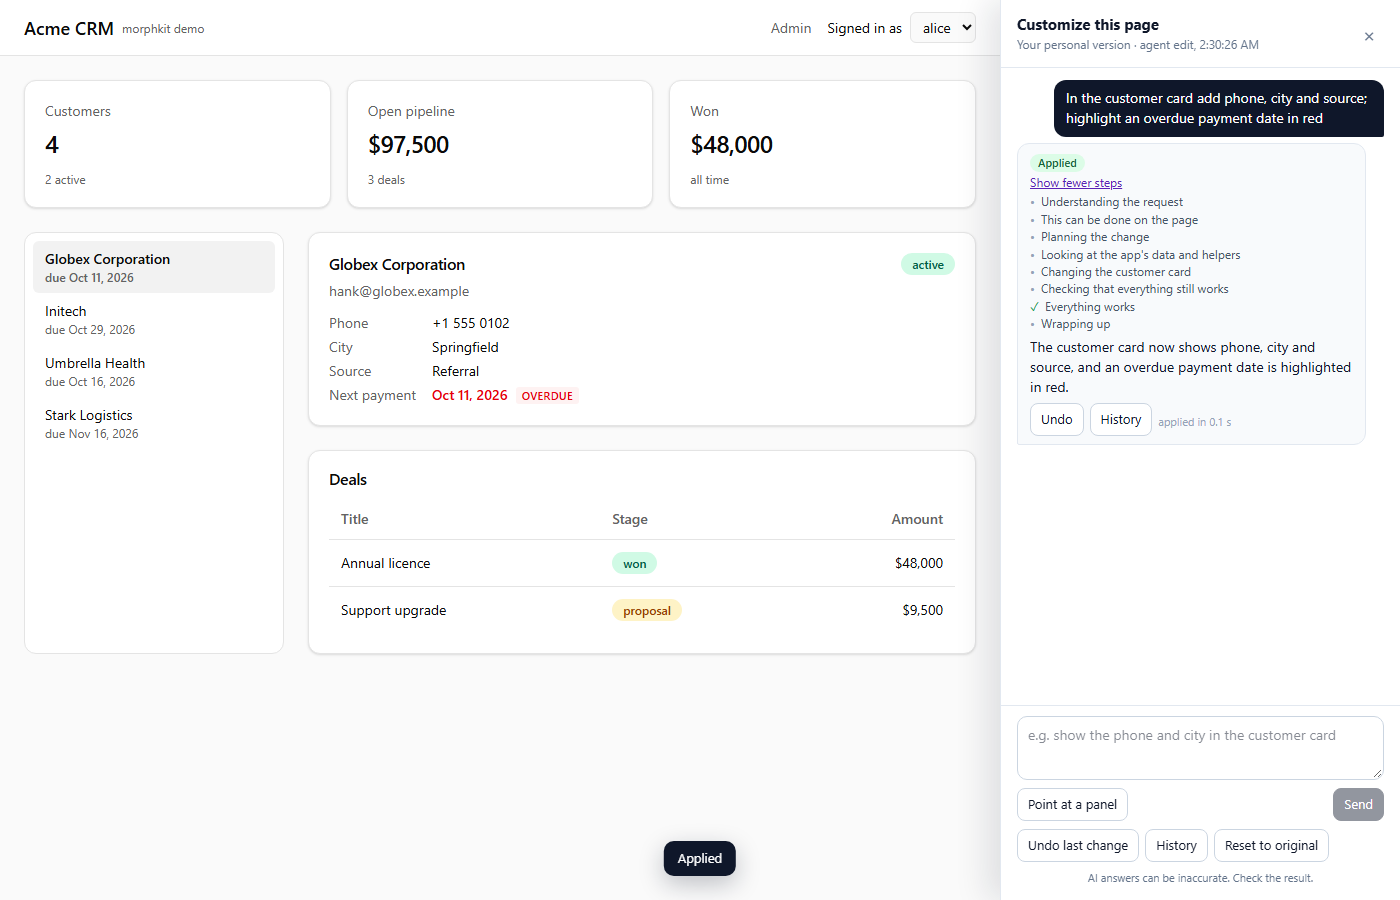
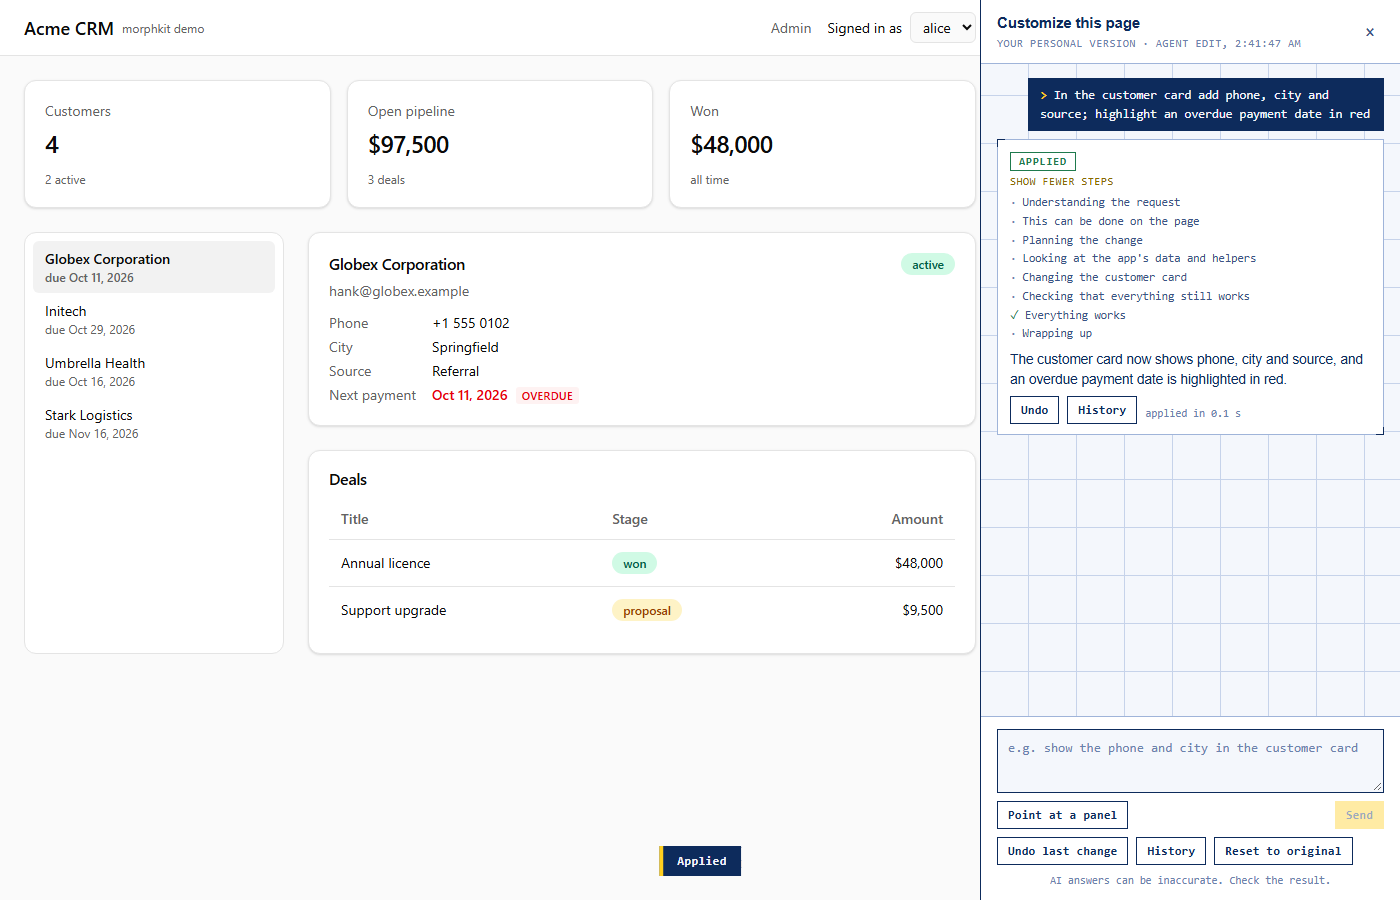
Design v2 for the chat drawer (@morphkit/ui CSS) and /admin (scoped cyanotype theme), no markup changes

diff --git a/packages/ui/src/styles.ts b/packages/ui/src/styles.ts
@@ -1,76 +1,127 @@
 import { useInsertionEffect } from 'react'
 
 // Self-contained styles: the host app may not use Tailwind, so the UI ships plain CSS with an `mk-` prefix.
+// Visual language: "cyanotype" (docs/DESIGN.md). Light sheet by default so the drawer sits quietly inside a
+// customer's app; `data-mk-theme="dark"` on <html> or the root switches to the blueprint sheet. Fonts fall back
+// to the host's system stacks: the drawer never loads web fonts into someone else's app.
 const CSS = `
 .mk-root, .mk-root * { box-sizing: border-box; }
-.mk-root { font: 14px/1.45 ui-sans-serif, system-ui, -apple-system, "Segoe UI", sans-serif; color: #0f172a; }
-.mk-launch { position: fixed; right: 20px; bottom: 20px; z-index: 2147482000; display: inline-flex; align-items: center; gap: 8px;
-  padding: 10px 16px; border-radius: 999px; border: 0; background: #0f172a; color: #fff; font-weight: 600; cursor: pointer;
-  box-shadow: 0 8px 24px rgba(15,23,42,.25); }
-.mk-launch:hover { background: #1e293b; }
-.mk-dot { width: 8px; height: 8px; border-radius: 50%; background: #a78bfa; }
-.mk-drawer { position: fixed; top: 0; right: 0; bottom: 0; width: 400px; max-width: 100vw; z-index: 2147482001; display: flex; flex-direction: column;
-  background: #fff; border-left: 1px solid #e2e8f0; box-shadow: -12px 0 32px rgba(15,23,42,.12); }
-.mk-head { display: flex; align-items: center; justify-content: space-between; padding: 14px 16px; border-bottom: 1px solid #e2e8f0; }
-.mk-title { font-weight: 650; font-size: 15px; }
-.mk-sub { font-size: 12px; color: #64748b; }
-.mk-icon { border: 0; background: transparent; font-size: 20px; line-height: 1; cursor: pointer; color: #64748b; padding: 4px 8px; border-radius: 6px; }
-.mk-icon:hover { background: #f1f5f9; }
-.mk-body { flex: 1; overflow-y: auto; padding: 12px 16px; display: flex; flex-direction: column; gap: 12px; }
-.mk-empty { color: #64748b; font-size: 13px; }
-.mk-empty ul { margin: 6px 0 0; padding-left: 18px; }
-.mk-turn { display: flex; flex-direction: column; gap: 6px; }
-.mk-req { align-self: flex-end; max-width: 90%; background: #0f172a; color: #fff; padding: 8px 12px; border-radius: 12px 12px 2px 12px; white-space: pre-wrap; }
-.mk-resp { align-self: flex-start; max-width: 95%; background: #f8fafc; border: 1px solid #e2e8f0; padding: 8px 12px; border-radius: 12px 12px 12px 2px; }
-.mk-steps { list-style: none; margin: 0; padding: 0; font-size: 12px; color: #475569; }
+.mk-root {
+  --mk-paper: #f4f7fc; --mk-paper-2: #e9eef8; --mk-paper-3: #ffffff;
+  --mk-ink: #0d2b5c; --mk-ink-2: #3a5486; --mk-ink-3: #6b82ad;
+  --mk-rule: #c6d3ea; --mk-rule-2: #9fb4d9;
+  --mk-signal: #ffcf1f; --mk-signal-ink: #8a6a00; --mk-signal-wash: rgba(255,207,31,.22);
+  --mk-blue: #1b6fb8; --mk-ok: #1f7a4d; --mk-bad: #b42318; --mk-bad-wash: rgba(180,35,24,.08);
+  --mk-font: "Archivo", "Helvetica Neue", Arial, system-ui, sans-serif;
+  --mk-mono: "Azeret Mono", ui-monospace, "SFMono-Regular", Menlo, Consolas, monospace;
+  font: 14px/1.45 var(--mk-font); color: var(--mk-ink);
+}
+[data-mk-theme="dark"] .mk-root, .mk-root[data-mk-theme="dark"] {
+  --mk-paper: #0d2b5c; --mk-paper-2: #0a2349; --mk-paper-3: #113570;
+  --mk-ink: #eaf2ff; --mk-ink-2: #b7c9ea; --mk-ink-3: #7f98c6;
+  --mk-rule: #2a4f8f; --mk-rule-2: #3b63a6;
+  --mk-signal: #ffd23f; --mk-signal-ink: #ffd23f; --mk-signal-wash: rgba(255,210,63,.14);
+  --mk-blue: #8fd6ff; --mk-ok: #7ef0b0; --mk-bad: #ff8a80; --mk-bad-wash: rgba(255,138,128,.12);
+}
+.mk-label { font-family: var(--mk-mono); font-size: 10.5px; letter-spacing: .12em; text-transform: uppercase; color: var(--mk-ink-3); }
+
+/* launcher */
+.mk-launch { position: fixed; right: 20px; bottom: 20px; z-index: 2147482000; display: inline-flex; align-items: center; gap: 10px;
+  padding: 10px 14px 10px 12px; border-radius: 0; border: 1.5px solid var(--mk-ink); background: var(--mk-paper-3); color: var(--mk-ink);
+  font: 600 12.5px/1 var(--mk-mono); letter-spacing: .04em; text-transform: uppercase; cursor: pointer; }
+.mk-launch::after { content: ""; position: absolute; right: -5px; bottom: -5px; width: 10px; height: 10px; border-right: 1.5px solid var(--mk-ink); border-bottom: 1.5px solid var(--mk-ink); }
+.mk-launch:hover { background: var(--mk-ink); color: var(--mk-paper); }
+.mk-dot { width: 12px; height: 12px; border: 1.5px solid currentColor; background: repeating-linear-gradient(-45deg, var(--mk-signal) 0 2px, transparent 2px 5px); }
+
+/* drawer as a sheet */
+.mk-drawer { position: fixed; top: 0; right: 0; bottom: 0; width: 420px; max-width: 100vw; z-index: 2147482001; display: flex; flex-direction: column;
+  background: var(--mk-paper); color: var(--mk-ink); border-left: 1.5px solid var(--mk-ink);
+  background-image: linear-gradient(var(--mk-rule) 1px, transparent 1px), linear-gradient(90deg, var(--mk-rule) 1px, transparent 1px);
+  background-size: 48px 48px; background-position: -1px -1px; }
+.mk-head { display: flex; align-items: center; justify-content: space-between; padding: 12px 16px; border-bottom: 1px solid var(--mk-rule-2); background: var(--mk-paper-3); }
+.mk-title { font-weight: 700; font-size: 15px; letter-spacing: -.01em; }
+.mk-sub { font-family: var(--mk-mono); font-size: 10.5px; letter-spacing: .08em; text-transform: uppercase; color: var(--mk-ink-3); margin-top: 2px; }
+.mk-icon { border: 1px solid transparent; background: transparent; font-size: 18px; line-height: 1; cursor: pointer; color: var(--mk-ink-2); padding: 4px 8px; border-radius: 0; font-family: var(--mk-mono); }
+.mk-icon:hover { border-color: var(--mk-ink); color: var(--mk-ink); }
+.mk-body { flex: 1; overflow-y: auto; padding: 14px 16px; display: flex; flex-direction: column; gap: 14px; }
+.mk-empty { color: var(--mk-ink-2); font-size: 13px; }
+.mk-empty ul { margin: 8px 0 0; padding: 0; list-style: none; display: flex; flex-direction: column; gap: 6px; }
+
+/* turns */
+.mk-turn { display: flex; flex-direction: column; gap: 8px; }
+.mk-req { align-self: flex-end; max-width: 92%; background: var(--mk-ink); color: var(--mk-paper); padding: 8px 12px; border-radius: 0; white-space: pre-wrap; font-family: var(--mk-mono); font-size: 12.5px; line-height: 1.5; }
+.mk-req::before { content: "> "; color: var(--mk-signal); font-weight: 600; }
+.mk-resp { position: relative; align-self: flex-start; width: 100%; background: var(--mk-paper-3); border: 1px solid var(--mk-rule-2); padding: 10px 12px; border-radius: 0; }
+.mk-resp::before, .mk-resp::after { content: ""; position: absolute; width: 8px; height: 8px; pointer-events: none; border-color: var(--mk-ink); border-style: solid; border-width: 0; }
+.mk-resp::before { left: -1px; top: -1px; border-left-width: 1.5px; border-top-width: 1.5px; }
+.mk-resp::after { right: -1px; bottom: -1px; border-right-width: 1.5px; border-bottom-width: 1.5px; }
+.mk-steps { list-style: none; margin: 6px 0 0; padding: 0; font-family: var(--mk-mono); font-size: 11.5px; color: var(--mk-ink-2); display: flex; flex-direction: column; gap: 2px; }
 .mk-steps li { display: flex; gap: 6px; align-items: baseline; }
-.mk-steps li::before { content: "•"; color: #94a3b8; }
-.mk-steps li.mk-bad::before { content: "×"; color: #dc2626; }
-.mk-steps li.mk-good::before { content: "✓"; color: #16a34a; }
-.mk-steps li.mk-transient { color: #7c3aed; }
-.mk-count { margin-left: 4px; color: #94a3b8; }
-.mk-details { display: block; border: 0; background: transparent; padding: 0; margin: 2px 0; font: inherit; font-size: 12px; color: #5b21b6; cursor: pointer; text-decoration: underline; }
-.mk-example { border: 0; padding: 0; text-align: left; color: #5b21b6; background: transparent; }
-.mk-summary { margin-top: 4px; }
-.mk-disclaimer { font-size: 11px; color: #64748b; text-align: center; }
-.mk-clarify { margin-top: 6px; display: flex; flex-direction: column; gap: 4px; }
+.mk-steps li::before { content: "·"; color: var(--mk-ink-3); }
+.mk-steps li.mk-bad::before { content: "×"; color: var(--mk-bad); }
+.mk-steps li.mk-good::before { content: "✓"; color: var(--mk-ok); }
+.mk-steps li.mk-transient::before { content: "▸"; color: var(--mk-signal-ink); }
+.mk-steps li.mk-transient { color: var(--mk-ink); }
+.mk-count { margin-left: 4px; color: var(--mk-ink-3); }
+.mk-details { display: block; border: 0; background: transparent; padding: 0; margin: 4px 0 0; font: 11px var(--mk-mono); letter-spacing: .04em; text-transform: uppercase; color: var(--mk-ink-3); cursor: pointer; text-decoration: none; }
+.mk-details:hover { color: var(--mk-signal-ink); }
+.mk-example { border: 1px dashed var(--mk-ink-3) !important; padding: 6px 10px !important; text-align: left; color: var(--mk-ink-2) !important; background: transparent !important; font-family: var(--mk-mono) !important; font-size: 12px !important; }
+.mk-example:hover { border-style: solid !important; border-color: var(--mk-signal) !important; color: var(--mk-signal-ink) !important; }
+.mk-summary { margin-top: 8px; font-size: 13.5px; line-height: 1.5; }
+.mk-disclaimer { font-family: var(--mk-mono); font-size: 10.5px; color: var(--mk-ink-3); text-align: center; letter-spacing: .02em; }
+.mk-clarify { margin-top: 8px; display: flex; flex-direction: column; gap: 6px; }
 .mk-thumbs { display: flex; gap: 6px; flex-wrap: wrap; }
 .mk-thumb { position: relative; display: inline-block; }
-.mk-thumb img { height: 56px; max-width: 96px; object-fit: cover; border-radius: 6px; border: 1px solid #cbd5e1; display: block; }
-.mk-thumb button { position: absolute; top: -6px; right: -6px; width: 18px; height: 18px; border-radius: 50%; border: 0; background: #0f172a; color: #fff; font-size: 12px; line-height: 18px; padding: 0; cursor: pointer; }
+.mk-thumb img { height: 56px; max-width: 96px; object-fit: cover; border-radius: 0; border: 1px solid var(--mk-rule-2); display: block; }
+.mk-thumb button { position: absolute; top: -6px; right: -6px; width: 18px; height: 18px; border-radius: 0; border: 1px solid var(--mk-ink); background: var(--mk-paper-3); color: var(--mk-ink); font: 11px/16px var(--mk-mono); padding: 0; cursor: pointer; }
 .mk-req-thumbs { display: flex; gap: 4px; margin-top: 6px; }
-.mk-req-thumbs img { height: 40px; max-width: 72px; object-fit: cover; border-radius: 4px; border: 1px solid rgba(255,255,255,.3); }
-.mk-drawer.mk-dragging { outline: 3px dashed #8b5cf6; outline-offset: -8px; }
-.mk-dropzone { position: absolute; inset: 0; z-index: 2; display: grid; place-items: center; background: rgba(237,233,254,.85); color: #5b21b6; font-weight: 600; pointer-events: none; }
-.mk-badge { display: inline-block; font-size: 11px; font-weight: 600; padding: 1px 8px; border-radius: 999px; margin-right: 6px; }
-.mk-b-ok { background: #dcfce7; color: #166534; } .mk-b-admin { background: #fef3c7; color: #92400e; }
-.mk-b-bad { background: #fee2e2; color: #991b1b; } .mk-b-run { background: #ede9fe; color: #5b21b6; }
-.mk-meta { font-size: 11px; color: #94a3b8; margin-top: 4px; }
-.mk-errors { margin: 4px 0 0; padding-left: 16px; font: 11px ui-monospace, Menlo, monospace; color: #991b1b; }
-.mk-foot { border-top: 1px solid #e2e8f0; padding: 10px 16px 14px; display: flex; flex-direction: column; gap: 8px; }
-.mk-input { width: 100%; min-height: 64px; resize: vertical; border: 1px solid #cbd5e1; border-radius: 10px; padding: 8px 10px; font: inherit; }
-.mk-input:focus { outline: 2px solid #a78bfa; outline-offset: 0; border-color: transparent; }
-.mk-row { display: flex; gap: 6px; flex-wrap: wrap; align-items: center; }
-.mk-btn { border: 1px solid #cbd5e1; background: #fff; color: #0f172a; padding: 6px 10px; border-radius: 8px; font: inherit; font-size: 13px; cursor: pointer; }
-.mk-btn:hover:not(:disabled) { background: #f1f5f9; }
-.mk-btn:disabled { opacity: .45; cursor: default; }
-.mk-primary { background: #0f172a; color: #fff; border-color: #0f172a; margin-left: auto; }
-.mk-primary:hover:not(:disabled) { background: #1e293b; }
-.mk-on { background: #ede9fe; border-color: #a78bfa; }
-.mk-history { max-height: 180px; overflow-y: auto; margin: 0; padding: 0; list-style: none; font-size: 12px; border: 1px solid #e2e8f0; border-radius: 8px; }
-.mk-history li { padding: 6px 10px; border-bottom: 1px solid #f1f5f9; display: flex; gap: 8px; }
+.mk-req-thumbs img { height: 40px; max-width: 72px; object-fit: cover; border-radius: 0; border: 1px solid rgba(255,255,255,.4); }
+.mk-drawer.mk-dragging { outline: 2px dashed var(--mk-signal); outline-offset: -8px; }
+.mk-dropzone { position: absolute; inset: 0; z-index: 2; display: grid; place-items: center; background: var(--mk-signal-wash); color: var(--mk-ink); font: 600 12px var(--mk-mono); letter-spacing: .08em; text-transform: uppercase; pointer-events: none; }
+
+/* badges */
+.mk-badge { display: inline-block; font: 600 10.5px var(--mk-mono); letter-spacing: .1em; text-transform: uppercase; padding: 2px 8px; border-radius: 0; margin-right: 6px; border: 1px solid currentColor; }
+.mk-b-ok { color: var(--mk-ok); background: transparent; }
+.mk-b-admin { color: var(--mk-signal-ink); background: var(--mk-signal-wash); border-color: var(--mk-signal); }
+.mk-b-bad { color: var(--mk-bad); background: var(--mk-bad-wash); }
+.mk-b-run { color: var(--mk-blue); background: transparent; }
+.mk-meta { font-family: var(--mk-mono); font-size: 10.5px; color: var(--mk-ink-3); margin-top: 6px; letter-spacing: .02em; }
+.mk-errors { margin: 4px 0 0; padding-left: 16px; font: 11px var(--mk-mono); color: var(--mk-bad); }
+
+/* footer: prompt bar */
+.mk-foot { border-top: 1px solid var(--mk-rule-2); padding: 12px 16px 12px; display: flex; flex-direction: column; gap: 8px; background: var(--mk-paper-3); }
+.mk-input { width: 100%; min-height: 64px; resize: vertical; border: 1.5px solid var(--mk-ink); border-radius: 0; padding: 8px 10px; font: 13px/1.5 var(--mk-mono); color: var(--mk-ink); background: var(--mk-paper); }
+.mk-input::placeholder { color: var(--mk-ink-3); }
+.mk-input:focus { outline: 2px solid var(--mk-signal); outline-offset: 0; }
+.mk-row { display: flex; gap: 8px; flex-wrap: wrap; align-items: center; }
+.mk-btn { position: relative; border: 1.5px solid var(--mk-ink); background: var(--mk-paper-3); color: var(--mk-ink); padding: 6px 10px; border-radius: 0; font: 600 12px var(--mk-mono); letter-spacing: .02em; cursor: pointer; }
+.mk-btn:hover:not(:disabled) { background: var(--mk-ink); color: var(--mk-paper); }
+.mk-btn:disabled { opacity: .4; cursor: default; }
+.mk-primary { background: var(--mk-signal); color: #0d2b5c; border-color: var(--mk-signal); margin-left: auto; }
+.mk-primary:hover:not(:disabled) { background: #ffe178; border-color: #ffe178; color: #0d2b5c; }
+.mk-on { background: var(--mk-signal-wash); border-color: var(--mk-signal); }
+
+/* history as a version ruler */
+.mk-history { max-height: 180px; overflow-y: auto; margin: 0; padding: 0; list-style: none; font: 11.5px var(--mk-mono); border: 1px solid var(--mk-rule-2); background: var(--mk-paper); }
+.mk-history li { position: relative; padding: 6px 10px 6px 18px; border-bottom: 1px solid var(--mk-rule); display: flex; gap: 8px; color: var(--mk-ink-2); }
+.mk-history li::before { content: ""; position: absolute; left: 8px; top: 0; bottom: 0; border-left: 1px solid var(--mk-rule-2); }
 .mk-history li:last-child { border-bottom: 0; }
-.mk-history .mk-cur { background: #f5f3ff; }
-.mk-history .mk-rej { opacity: .5; }
+.mk-history .mk-cur { color: var(--mk-ink); background: var(--mk-signal-wash); }
+.mk-history .mk-cur::after { content: ""; position: absolute; left: 4px; top: 8px; border: 4px solid transparent; border-left: 6px solid var(--mk-signal); }
+.mk-history .mk-rej { opacity: .5; text-decoration: line-through; }
+
+/* toasts and banners */
 .mk-toasts { position: fixed; left: 50%; bottom: 24px; transform: translateX(-50%); z-index: 2147483001; display: flex; flex-direction: column; gap: 8px; align-items: center; }
-.mk-toast { background: #0f172a; color: #fff; padding: 8px 14px; border-radius: 10px; font-size: 13px; box-shadow: 0 8px 24px rgba(15,23,42,.25); }
-.mk-toast.mk-t-bad { background: #991b1b; } .mk-toast.mk-t-admin { background: #92400e; }
+.mk-toast { background: var(--mk-ink); color: var(--mk-paper); padding: 8px 14px; border-radius: 0; font: 600 12px var(--mk-mono); letter-spacing: .04em; border-left: 4px solid var(--mk-signal); }
+.mk-toast.mk-t-bad { border-left-color: var(--mk-bad); } .mk-toast.mk-t-admin { border-left-color: var(--mk-blue); }
 .mk-stale { position: fixed; top: 0; left: 0; right: 0; z-index: 2147482002; display: flex; gap: 12px; align-items: center; justify-content: center; flex-wrap: wrap;
-  padding: 8px 16px; background: #fffbeb; border-bottom: 1px solid #fcd34d; color: #78350f; font-size: 13px; }
+  padding: 8px 16px; background: var(--mk-paper-3); border-top: 4px solid var(--mk-signal); border-bottom: 1px solid var(--mk-rule-2); color: var(--mk-ink); font-size: 13px; }
+
+/* element picker */
 .mk-pick-layer { position: fixed; inset: 0; z-index: 2147482500; cursor: crosshair; }
-.mk-pick-box { position: fixed; z-index: 2147482501; pointer-events: none; border: 2px solid #8b5cf6; background: rgba(139,92,246,.08); border-radius: 8px; transition: all 60ms ease-out; }
-.mk-pick-label { position: absolute; top: -24px; left: -2px; background: #8b5cf6; color: #fff; font-size: 12px; font-weight: 600; padding: 2px 8px; border-radius: 6px 6px 6px 0; white-space: nowrap; }
-.mk-pick-hint { position: fixed; top: 12px; left: 50%; transform: translateX(-50%); z-index: 2147482502; background: #0f172a; color: #fff; padding: 6px 12px; border-radius: 8px; font-size: 13px; pointer-events: none; }
+.mk-pick-box { position: fixed; z-index: 2147482501; pointer-events: none; border: 1.5px solid var(--mk-ink); outline: 1px dashed var(--mk-signal); outline-offset: 4px; background: var(--mk-signal-wash); border-radius: 0; transition: all 60ms ease-out; }
+.mk-pick-label { position: absolute; top: -22px; left: -1.5px; background: var(--mk-ink); color: var(--mk-paper); font: 600 10.5px var(--mk-mono); letter-spacing: .1em; text-transform: uppercase; padding: 3px 8px; border-radius: 0; white-space: nowrap; }
+.mk-pick-hint { position: fixed; top: 12px; left: 50%; transform: translateX(-50%); z-index: 2147482502; background: var(--mk-ink); color: var(--mk-paper); padding: 6px 12px; border-radius: 0; font: 600 11.5px var(--mk-mono); letter-spacing: .06em; text-transform: uppercase; pointer-events: none; border-left: 4px solid var(--mk-signal); }
 `
 
 let installed = false

diff --git a/apps/demo-crm/src/index.css b/apps/demo-crm/src/index.css
@@ -38,3 +38,38 @@ body {
   @apply bg-background text-foreground antialiased;
   font-family: ui-sans-serif, system-ui, sans-serif;
 }
+
+/* /admin is morphkit's own surface: "cyanotype" light sheet (docs/DESIGN.md). The CRM itself keeps the customer's neutral look. */
+.mk-admin {
+  --background: #f4f7fc;
+  --foreground: #0d2b5c;
+  --card: #ffffff;
+  --primary: #0d2b5c;
+  --primary-foreground: #f4f7fc;
+  --muted: #e9eef8;
+  --muted-foreground: #3a5486;
+  --border: #9fb4d9;
+  --ring: #ffcf1f;
+  --mk-signal: #ffcf1f;
+  background-color: var(--background);
+  color: var(--foreground);
+  background-image: linear-gradient(#c6d3ea 1px, transparent 1px), linear-gradient(90deg, #c6d3ea 1px, transparent 1px);
+  background-size: 96px 96px;
+  font-family: "Archivo", "Helvetica Neue", Arial, system-ui, sans-serif;
+}
+.mk-admin [class*="rounded"] { border-radius: 0 !important; }
+.mk-admin [class*="shadow"] { box-shadow: none !important; }
+.mk-admin header { background: #ffffff; border-bottom: 1px solid #9fb4d9; }
+.mk-admin .mk-admin-mark { display: inline-block; width: 14px; height: 14px; margin-left: 4px; border: 1.5px solid #0d2b5c; background: repeating-linear-gradient(-45deg, #ffcf1f 0 2px, transparent 2px 6px); vertical-align: -2px; }
+.mk-admin thead th, .mk-admin .bg-card > div > p.text-muted-foreground, .mk-admin label .text-xs { font-family: "Azeret Mono", ui-monospace, Menlo, Consolas, monospace; letter-spacing: .08em; text-transform: uppercase; font-size: 10.5px; color: #6b82ad; }
+.mk-admin .bg-card { position: relative; border: 1px solid #9fb4d9; background: #fff; }
+.mk-admin .bg-card::before, .mk-admin .bg-card::after { content: ""; position: absolute; width: 9px; height: 9px; border: 0 solid #0d2b5c; pointer-events: none; }
+.mk-admin .bg-card::before { left: -1px; top: -1px; border-left-width: 1.5px; border-top-width: 1.5px; }
+.mk-admin .bg-card::after { right: -1px; bottom: -1px; border-right-width: 1.5px; border-bottom-width: 1.5px; }
+.mk-admin .bg-card h3 { letter-spacing: -.02em; }
+.mk-admin tr[data-status="pending-review"] { background: rgba(255,207,31,.18) !important; box-shadow: inset 4px 0 0 #ffcf1f; }
+.mk-admin tbody tr:hover { background: #e9eef8; }
+.mk-admin button, .mk-admin a.button { border-radius: 0 !important; font-family: "Azeret Mono", ui-monospace, Menlo, monospace; font-size: 12px; letter-spacing: .02em; }
+.mk-admin .rounded-full { border-radius: 0; font-family: "Azeret Mono", ui-monospace, Menlo, monospace; font-size: 10px; letter-spacing: .08em; text-transform: uppercase; border: 1px solid currentColor; background: transparent !important; }
+.mk-admin pre, .mk-admin code { border-radius: 0; }
+.mk-admin pre, .mk-admin code, .mk-admin .font-mono, .mk-admin table.font-mono *, .mk-admin [class*="font-mono"] { text-transform: none !important; letter-spacing: 0 !important; font-size: inherit; color: inherit; }

diff --git a/apps/demo-crm/src/core/Admin.tsx b/apps/demo-crm/src/core/Admin.tsx
@@ -119,11 +119,12 @@ export function Admin({ appId, locale = 'en' }: { appId: string; locale?: Locale
   const query = [appQuery, langQuery].filter(Boolean).join('&')
 
   return (
-    <div className="min-h-screen" lang={locale}>
+    <div className="min-h-screen mk-admin" lang={locale}>
       <header className="border-b border-border bg-card">
         <div className="mx-auto flex max-w-6xl items-center justify-between px-6 py-3">
           <div className="flex items-center gap-2">
             <span className="text-lg font-semibold">Acme CRM</span>
+            <span className="mk-admin-mark" aria-hidden="true" />
             <span className="text-xs text-muted-foreground">
               {tr('admin.title')} · {appId}
             </span>
